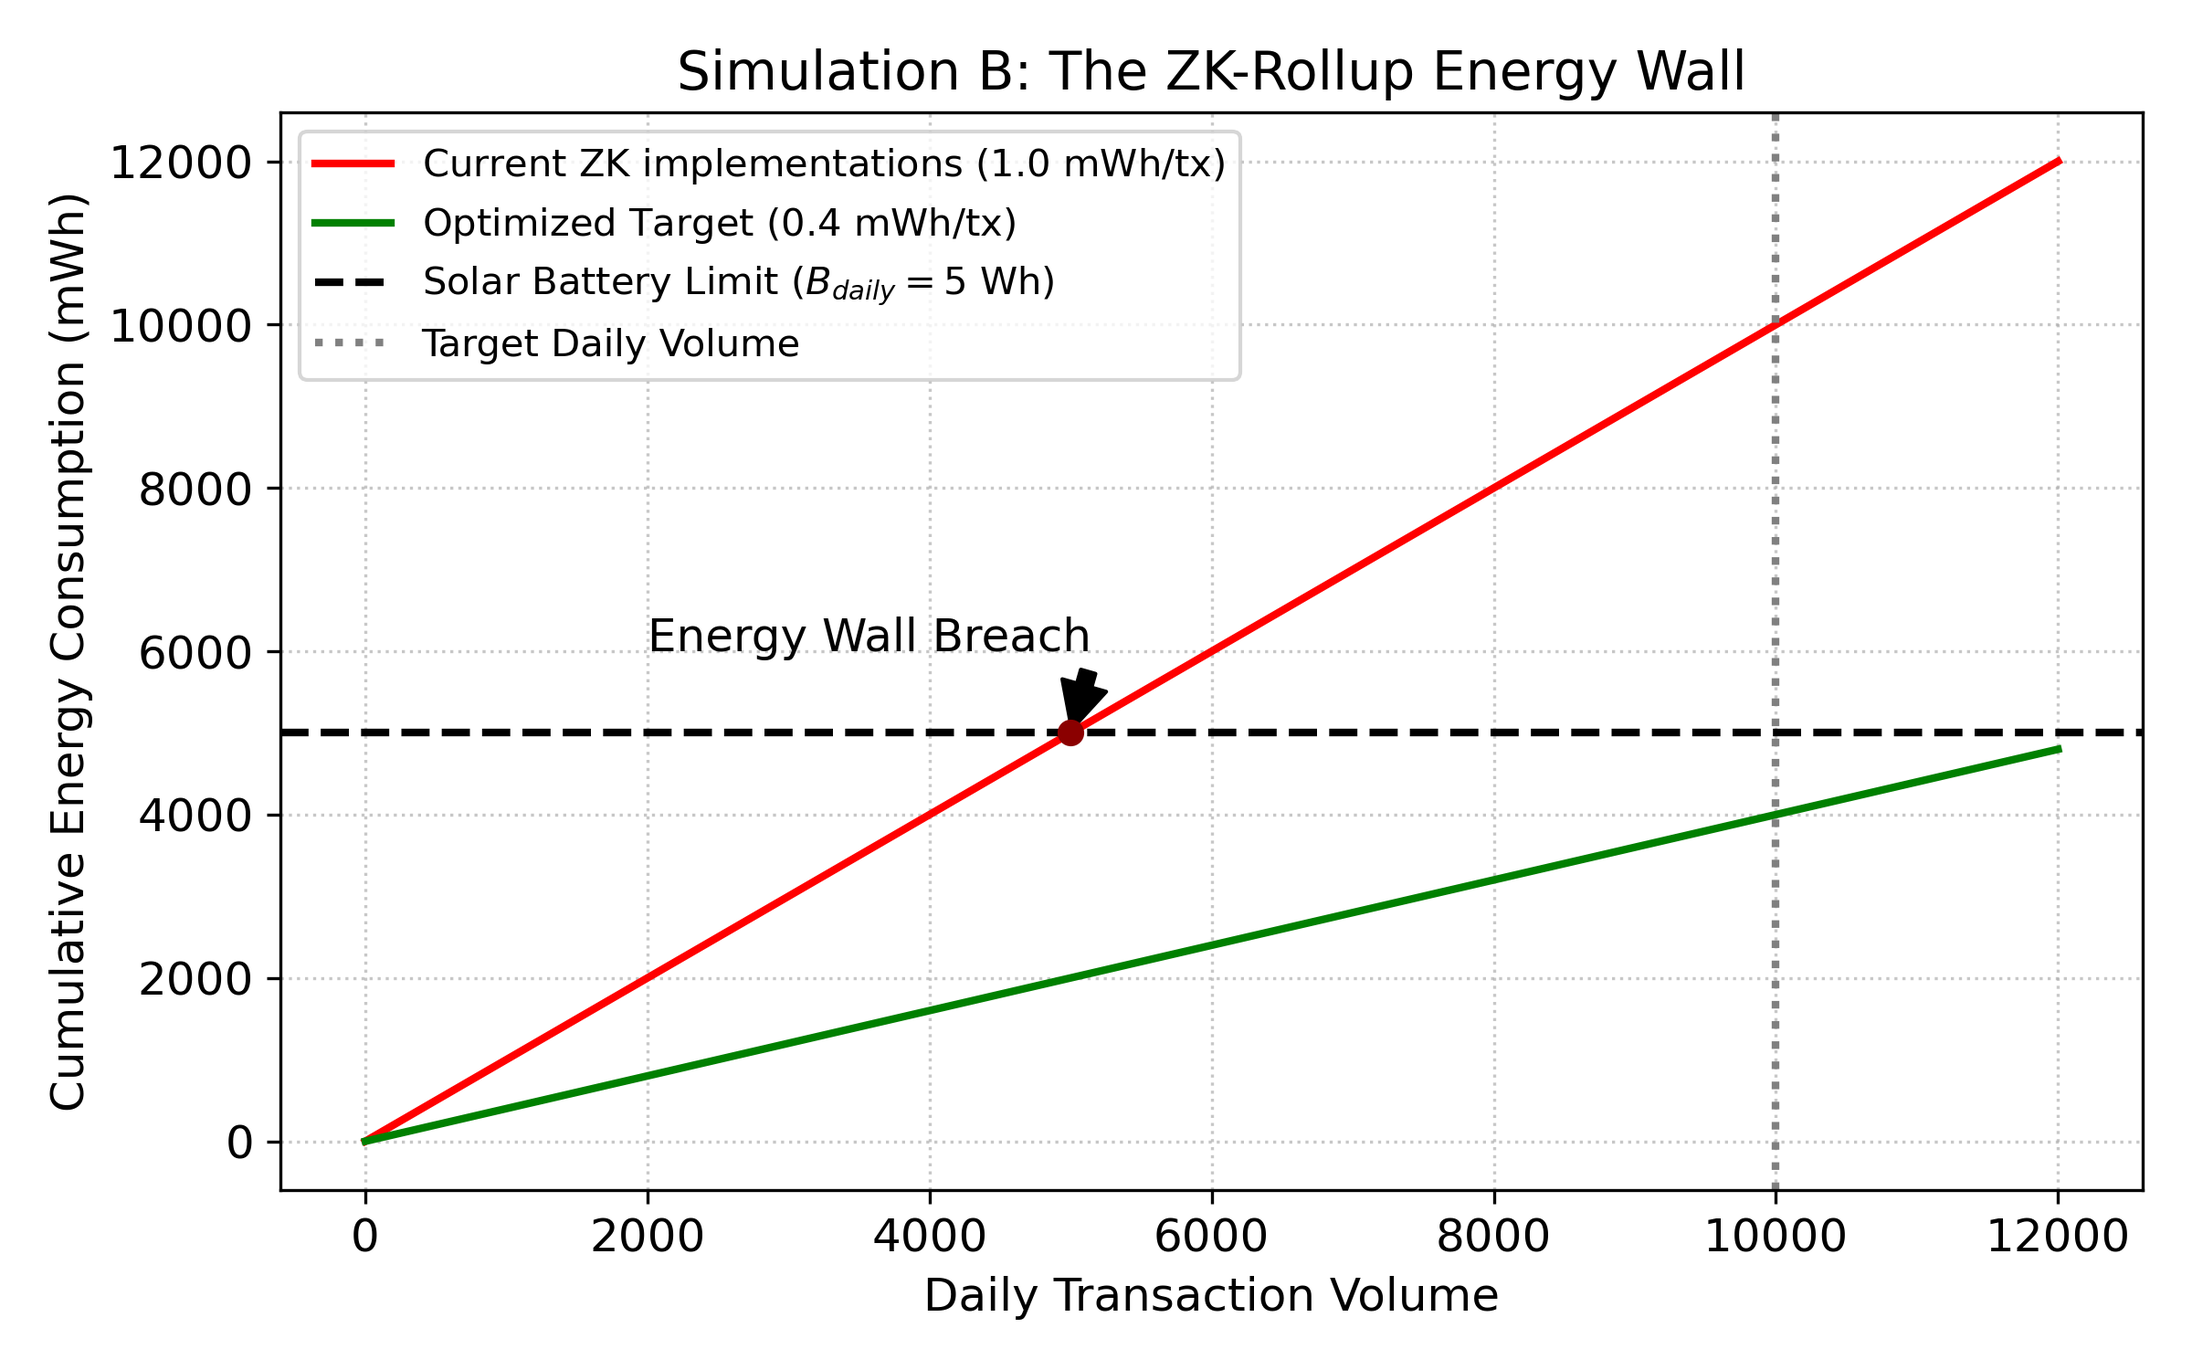
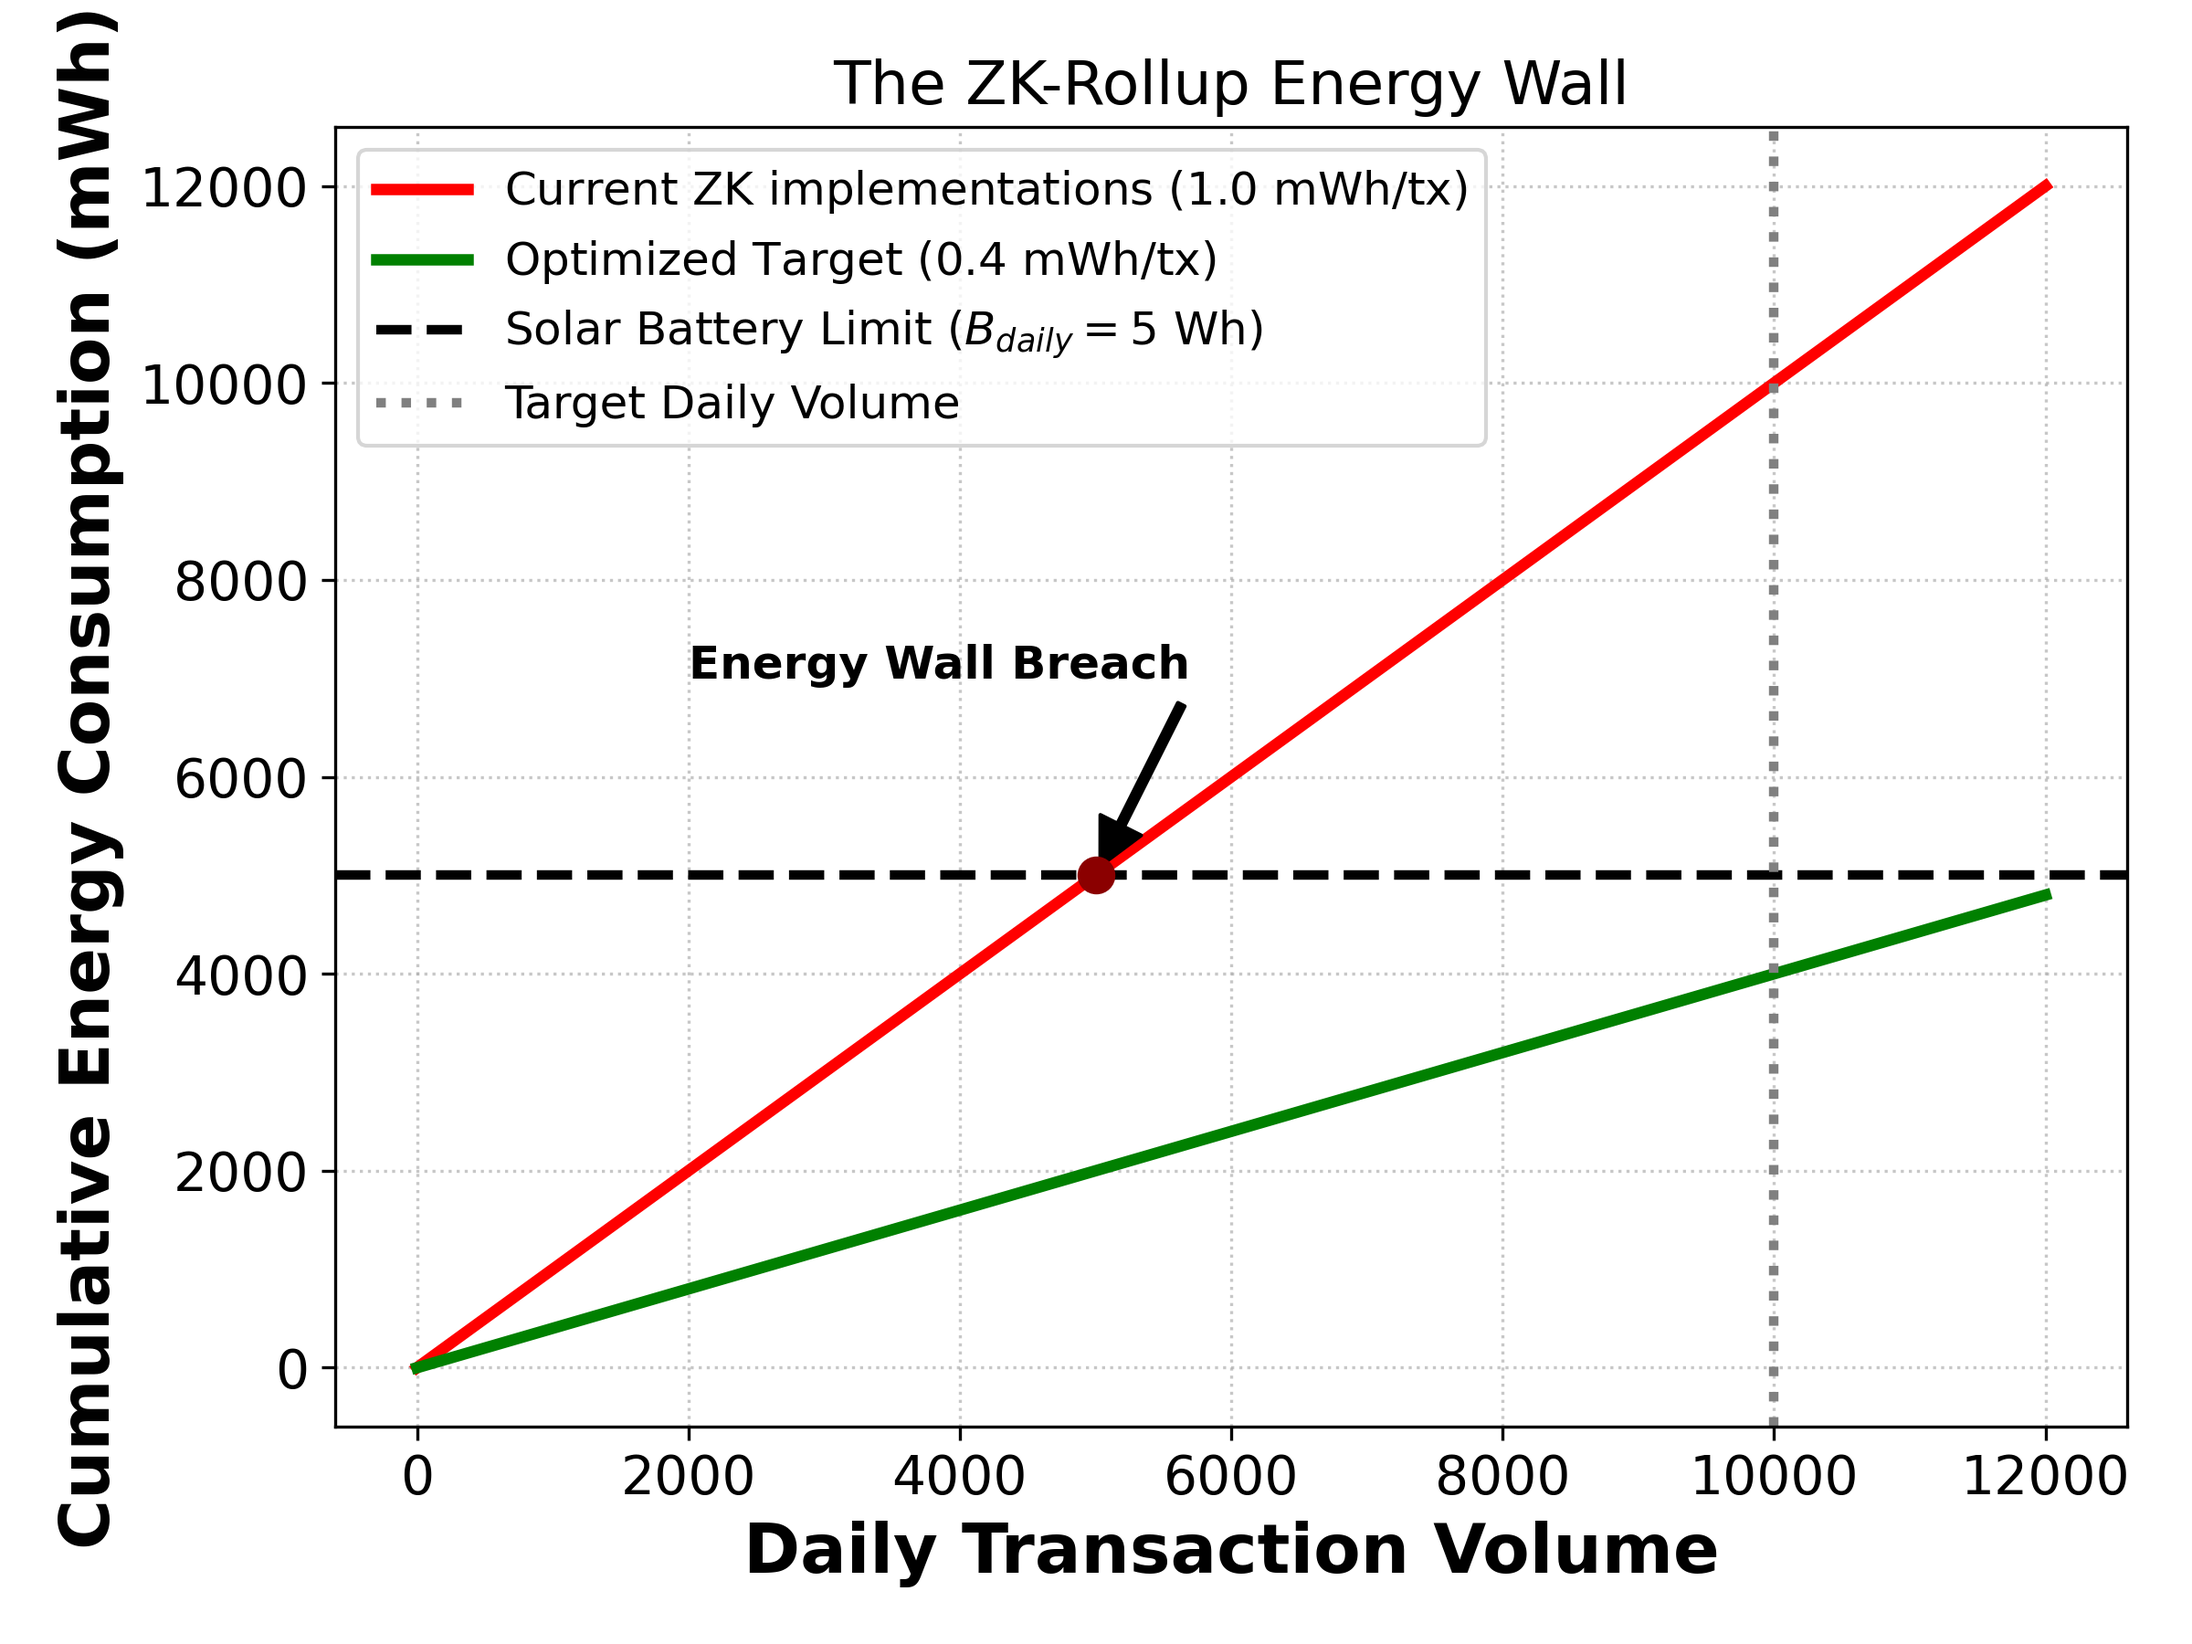
Consolidation du script de génération des figures (4 graphiques intégrés avec le style IEEE)

diff --git a/simulations/monte_carlo_security/generate_article1_figures.py b/simulations/monte_carlo_security/generate_article1_figures.py
@@ -6,21 +6,28 @@ import os
 # =====================================================================
 # REPRODUCIBILITY SCRIPT: ARTICLE 1 (TETRALEMMA & LIMITATIONS)
 # Generates: Monte Carlo Security Sweep, Sensitivity Analysis, 
-# Energy Wall limit, and Resilience Ratio (Phi)
+# Energy Wall limit, and Resilience Ratio
 # =====================================================================
 
 np.random.seed(42) # Deterministic seed for reviewers
 
+# INCREASED FONT SIZES PER IEEE REVIEWER REQUEST
 plt.rcParams.update({
-    'font.size': 12, 'axes.labelsize': 12, 'axes.titlesize': 14,
-    'legend.fontsize': 10, 'lines.linewidth': 2, 'figure.dpi': 300
+    'font.size': 14, 
+    'axes.labelsize': 18,     # Significantly increased x/y label size
+    'axes.titlesize': 16,     # Title size increased
+    'xtick.labelsize': 14,    # Axis tick numbers increased
+    'ytick.labelsize': 14,    # Axis tick numbers increased
+    'legend.fontsize': 12, 
+    'lines.linewidth': 2.5,   # Thicker lines for visibility
+    'figure.dpi': 300
 })
 
 OUTPUT_DIR = "generated_figures"
 os.makedirs(OUTPUT_DIR, exist_ok=True)
 
 def plot_sim_a_monte_carlo():
-    """Fig 3: Monte Carlo Security Degradation & Mitigation Sweep"""
+    """Monte Carlo Security Degradation & Mitigation Sweep"""
     A_values = np.linspace(0.1, 1.0, 50)
     N = 10
     rho_geo = 0.8
@@ -43,7 +50,7 @@ def plot_sim_a_monte_carlo():
             if k == 1.0: 
                 variances.append(np.std(P_mitig))
 
-    plt.figure(figsize=(8, 5))
+    plt.figure(figsize=(8, 6))
     A_vals = np.array(A_values)
     
     base_mean = np.array(results[1.0])
@@ -58,28 +65,28 @@ def plot_sim_a_monte_carlo():
     plt.axhline(0.99, color='red', linestyle=':', label='Security Threshold (0.99)')
     plt.axvline(0.4, color='darkred', linestyle='-.', alpha=0.5, label=r'Typical Rural $A \approx 0.4$')
 
-    plt.xlabel('Average Network Availability ($A$)')
-    plt.ylabel('Probability of Detection ($P_{detect}$)')
-    plt.title('Simulation A: Monte Carlo Security Sweep')
-    plt.legend(loc='lower right', fontsize=9)
+    plt.xlabel('Average Network Availability ($A$)', fontweight='bold')
+    plt.ylabel('Probability of Detection ($P_{detect}$)', fontweight='bold')
+    plt.title('Monte Carlo Security Sweep') 
+    plt.legend(loc='lower right', fontsize=11)
     plt.grid(True, linestyle=':', alpha=0.7)
     plt.tight_layout()
     plt.savefig(f"{OUTPUT_DIR}/sim_security_sweep.png")
     print("Generated: sim_security_sweep.png")
 
 def plot_sensitivity_analysis():
-    """Fig 4: Sensitivity Analysis S = dP/dA"""
+    """Sensitivity Analysis S = dP/dA"""
     A_values = np.linspace(0.0, 1.0, 100)
     N = 10
     S = N * (1 - A_values)**(N-1)
     
-    plt.figure(figsize=(7, 5))
-    plt.plot(A_values, S, color='crimson', linewidth=2.5)
+    plt.figure(figsize=(8, 6))
+    plt.plot(A_values, S, color='crimson', linewidth=3.0)
     plt.fill_between(A_values, 0, S, where=(A_values >= 0.2) & (A_values <= 0.5), color='red', alpha=0.15, label='Unstable Equilibrium Zone')
     
-    plt.xlabel('Average Network Availability ($A$)')
-    plt.ylabel('Sensitivity ($S = dP/dA$)')
-    plt.title('Sensitivity Analysis of Fraud Detection')
+    plt.xlabel('Average Network Availability ($A$)', fontweight='bold')
+    plt.ylabel('Sensitivity ($S = dP/dA$)', fontweight='bold')
+    plt.title('Sensitivity Analysis of Fraud Detection') 
     plt.legend()
     plt.grid(True, linestyle='--', alpha=0.6)
     plt.tight_layout()
@@ -87,7 +94,7 @@ def plot_sensitivity_analysis():
     print("Generated: sim_sensitivity.png")
 
 def plot_energy_wall():
-    """Fig 6: The Energy Wall for ZK-Rollups"""
+    """The Energy Wall for ZK-Rollups"""
     transactions = np.linspace(0, 12000, 100)
     
     E_current = 1.0 # mWh/tx
@@ -97,57 +104,76 @@ def plot_energy_wall():
     consumption_current = transactions * E_current
     consumption_target = transactions * E_target
     
-    plt.figure(figsize=(8, 5))
-    plt.plot(transactions, consumption_current, color='red', label='Current ZK implementations ($1.0$ mWh/tx)')
-    plt.plot(transactions, consumption_target, color='green', label='Optimized Target ($0.4$ mWh/tx)')
-    plt.axhline(B_daily_mWh, color='black', linestyle='--', linewidth=2, label='Solar Battery Limit ($B_{daily} = 5$ Wh)')
+    plt.figure(figsize=(8, 6))
+    plt.plot(transactions, consumption_current, color='red', linewidth=3.0, label='Current ZK implementations ($1.0$ mWh/tx)')
+    plt.plot(transactions, consumption_target, color='green', linewidth=3.0, label='Optimized Target ($0.4$ mWh/tx)')
+    plt.axhline(B_daily_mWh, color='black', linestyle='--', linewidth=2.5, label='Solar Battery Limit ($B_{daily} = 5$ Wh)')
     
-    plt.scatter([5000], [5000], color='darkred', zorder=5)
-    plt.annotate('Energy Wall Breach', xy=(5000, 5000), xytext=(2000, 6000),
-                 arrowprops=dict(facecolor='black', shrink=0.05))
+    plt.scatter([5000], [5000], color='darkred', zorder=5, s=80)
+    plt.annotate('Energy Wall Breach', xy=(5000, 5000), xytext=(2000, 7000),
+                 arrowprops=dict(facecolor='black', shrink=0.05, width=2), fontsize=12, fontweight='bold')
                  
     plt.axvline(10000, color='gray', linestyle=':', label='Target Daily Volume')
     
-    plt.xlabel('Daily Transaction Volume')
-    plt.ylabel('Cumulative Energy Consumption (mWh)')
-    plt.title('Simulation B: The ZK-Rollup Energy Wall')
-    plt.legend()
+    plt.xlabel('Daily Transaction Volume', fontweight='bold')
+    plt.ylabel('Cumulative Energy Consumption (mWh)', fontweight='bold')
+    plt.title('The ZK-Rollup Energy Wall') 
+    plt.legend(loc='upper left')
     plt.grid(True, linestyle=':', alpha=0.7)
     plt.tight_layout()
     plt.savefig(f"{OUTPUT_DIR}/sim_energy_wall.png")
     print("Generated: sim_energy_wall.png")
 
 def plot_resilience_ratio():
-    """Fig 9: Resilience Ratio (Phi) vs Technical Uptime (rho)"""
-    rho_values = np.linspace(0.1, 1.0, 100)
+    """Resilience Ratio (Phi) vs Technical Uptime (rho)"""
+    rho_values = np.linspace(0.0, 1.0, 100)
     
+    # Literacy (L) and Regulatory friction (U) constants
     L_urban, U_urban = 0.7, 0.6
     Phi_urban = (L_urban * rho_values) / U_urban
     
     L_rural, U_rural = 0.3, 0.6
     Phi_rural = (L_rural * rho_values) / U_rural
     
-    plt.figure(figsize=(8, 5))
-    plt.plot(rho_values, Phi_urban, color='blue', label='Urban Profile (Yaoundé): $L=0.7$')
-    plt.plot(rho_values, Phi_rural, color='orange', label='Rural Profile (Mokolo): $L=0.3$')
+    plt.figure(figsize=(8, 6))
     
-    plt.axhline(0.2, color='red', linestyle='--', label=r'Heeks Failure Line ($\Phi < 0.2$)')
-    plt.fill_between(rho_values, 0, 0.2, color='red', alpha=0.1, label='Critical Failure Zone')
+    # Plotting the lines
+    plt.plot(rho_values, Phi_urban, color='#4682b4', linewidth=3.0, label='Urban Profile (Yaoundé): $L=0.7$')
+    plt.plot(rho_values, Phi_rural, color='#d62728', linewidth=3.0, label='Rural Profile (Mokolo): $L=0.3$')
     
-    plt.scatter([0.85], [(0.7*0.85)/0.6], color='darkblue') 
-    plt.scatter([0.35], [(0.3*0.35)/0.6], color='darkorange') 
+    # Heeks Failure Zone
+    plt.axhline(0.2, color='darkred', linestyle='--', linewidth=2.5, label=r'Heeks Failure Line ($\Phi < 0.2$)')
+    plt.fill_between(rho_values, 0, 0.2, color='red', alpha=0.1)
     
-    plt.xlabel(r'Technical Uptime ($\rho$)')
-    plt.ylabel(r'Resilience Ratio ($\Phi$)')
-    plt.title('Simulation C: Socio-Technical Resilience')
-    plt.legend()
+    # Text annotation to make the graph more informative (addressing reviewer's concern)
+    plt.text(0.5, 0.1, 'HIGH PROBABILITY OF ABANDONMENT', color='darkred', 
+             fontsize=12, fontweight='bold', ha='center', va='center', alpha=0.7)
+    
+    # Scatter points for typical operating regimes
+    plt.scatter([0.85], [(0.7*0.85)/0.6], color='#4682b4', s=100, zorder=5) 
+    plt.scatter([0.40], [(0.3*0.40)/0.6], color='#d62728', s=100, zorder=5) 
+    
+    # Annotate the specific rural failure point
+    plt.annotate('Rural Node\nDrops below survival', xy=(0.40, 0.2), xytext=(0.45, 0.3),
+                 arrowprops=dict(facecolor='black', shrink=0.05, width=1.5, headwidth=8),
+                 fontsize=11, fontweight='bold')
+
+    # Formatting
+    plt.xlabel(r'Technical Uptime Reliability ($\rho$)', fontweight='bold')
+    plt.ylabel(r'Resilience Ratio ($\Phi$)', fontweight='bold')
+    plt.title('System Viability Thresholds')
+    
+    plt.xlim(-0.05, 1.05)
+    plt.ylim(-0.02, 0.55)
     plt.grid(True, linestyle='--', alpha=0.6)
+    plt.legend(loc='upper left', fontsize=11)
     plt.tight_layout()
+    
     plt.savefig(f"{OUTPUT_DIR}/sim_resilience.png")
     print("Generated: sim_resilience.png")
 
 if __name__ == "__main__":
-    print("Generating statistical graphs for Article 1...")
+    print("Generating updated statistical graphs for Article 1...")
     plot_sim_a_monte_carlo()
     plot_sensitivity_analysis()
     plot_energy_wall()
